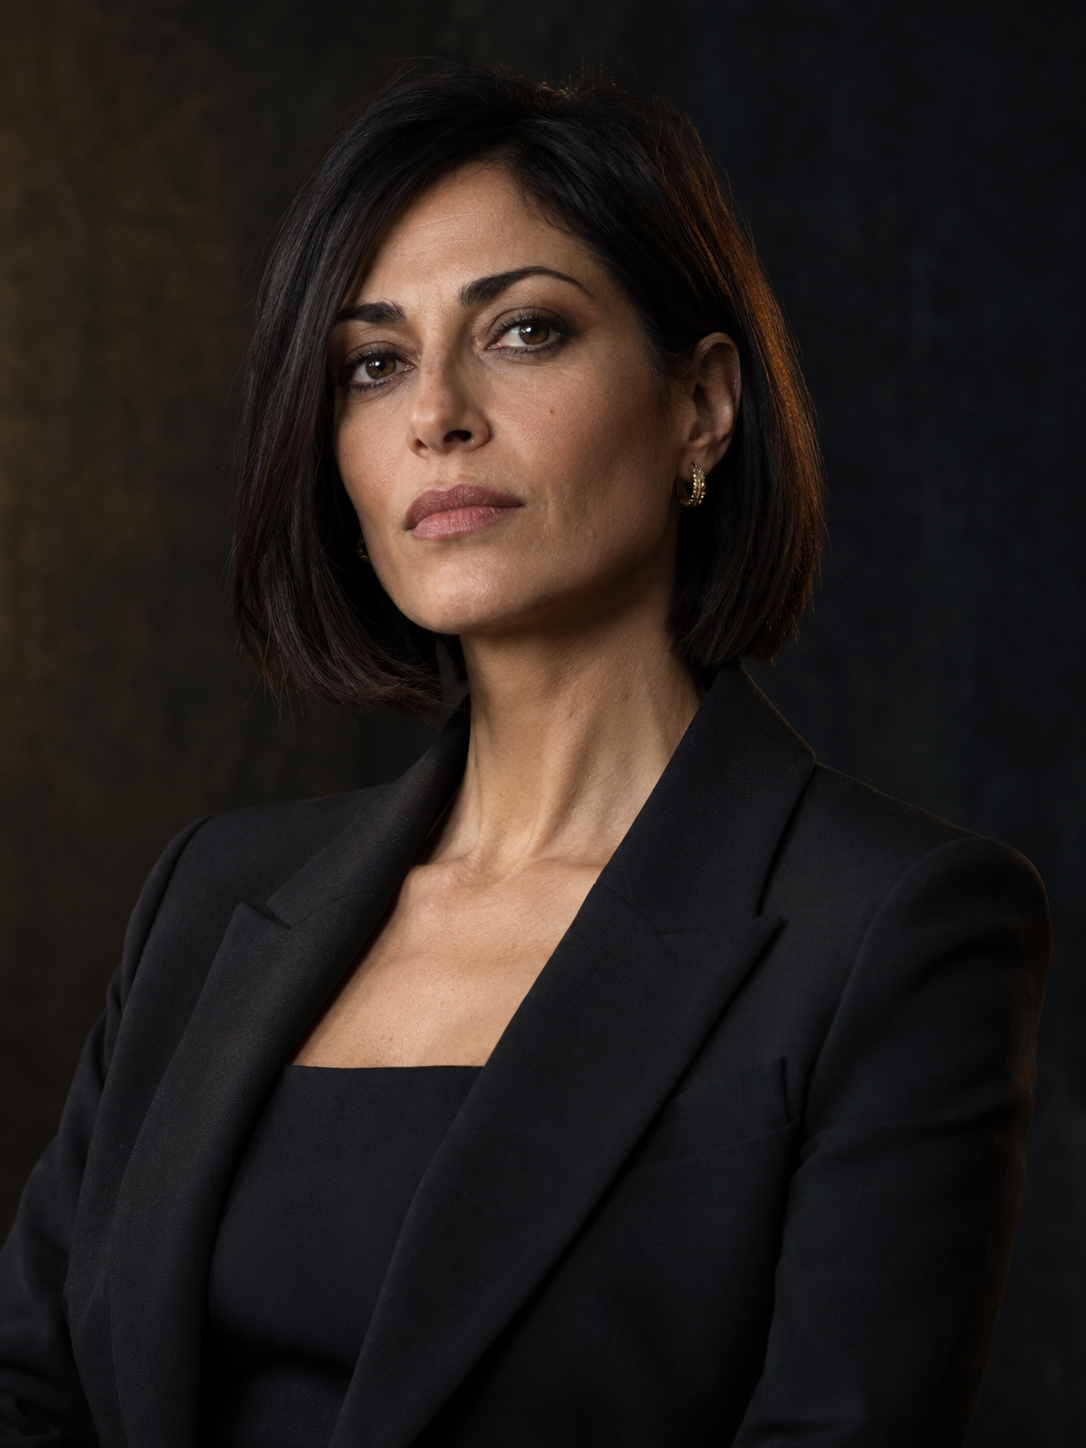
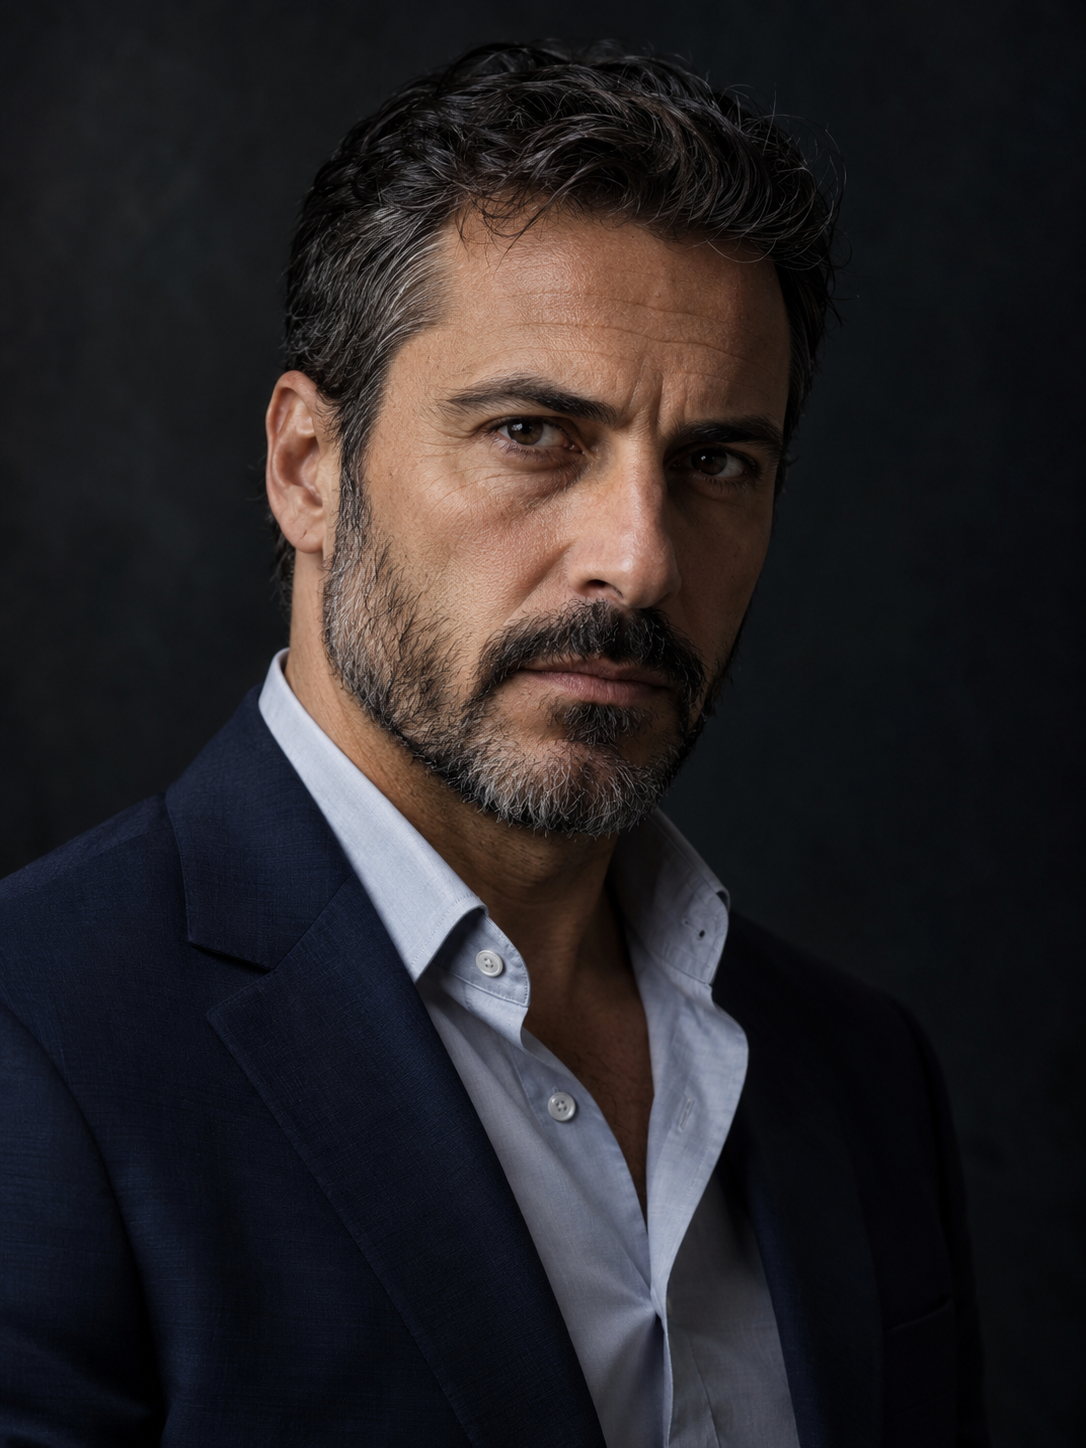
aggiornamento V11.5

diff --git a/js/app.js b/js/app.js
@@ -459,7 +459,7 @@
     const entityCard = entity => {
       const clues = grouped[entity.id] || [];
       const suspect = entity.kind === 'suspect' ? suspectById(entity.id) : null;
-      const image = entity.image || suspect?.image;
+      const image = entity.image || (entity.kind === 'victim' ? data.victim?.image : '') || suspect?.image;
       const interviewFacts = suspect ? (suspect.interrogation || []).filter(topic => GameState.data.askedTopics.includes(`${suspect.id}:${topic.id}`)) : [];
       const clueHtml = clues.length ? clues.map(e => {
         const isNew = !(GameState.data.seenEvidence || []).includes(e.id);

diff --git a/css/style.css b/css/style.css
@@ -565,3 +565,10 @@ html, body { height: 100%; }
   fill:#f0d393;
   font-size:9.5px;
 }
+
+/* V11.5 — portrait cache refresh + victim portrait */
+.board-cluster-head img,
+.suspect-photo img,
+.interview-photo img {
+  object-position:center top;
+}

diff --git a/README.md b/README.md
@@ -80,3 +80,8 @@ Dopo l'aggiornamento è consigliato usare **Ricomincia caso** per testare il Cas
 
 ## V11.2
 - Corretto il routing dei collegamenti nella Mappa Investigativa: linee ed etichette ora passano negli spazi tra le schede e non vengono più coperte dai pannelli.
+
+
+## V11.5
+- Aggiunto ritratto realistico della vittima Andrea Romano nella Mappa Investigativa.
+- Corretti definitivamente i riferimenti Laura/Marco e aggiunto cache-busting alle immagini per evitare foto vecchie da GitHub Pages/browser.
